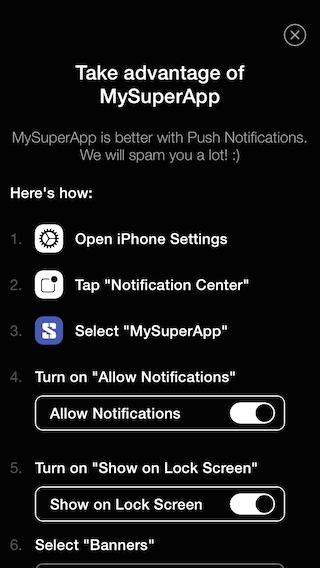
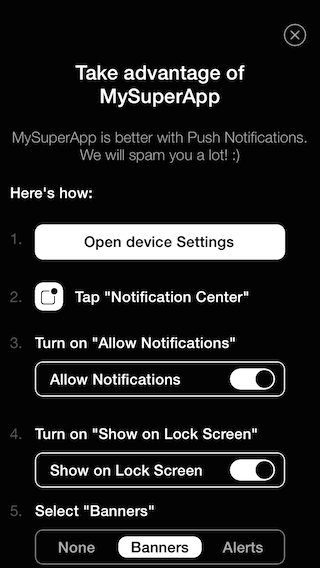
On iOS8 button to launch the device settings

diff --git a/Pod/Classes/STNotificationHelperViewController.m b/Pod/Classes/STNotificationHelperViewController.m
@@ -126,6 +126,8 @@ NSString *STNotificationLocalizedString(NSString *localizeString) {
         _exitButton = UIButton.new;
         [self.exitButton addTarget:self action:@selector(exitButtonAction) forControlEvents:UIControlEventTouchUpInside];
         self.exitButton.tintColor = UIColor.lightGrayColor;
+        self.exitButton.layer.cornerRadius = 35;
+        self.exitButton.backgroundColor = UIColor.blackColor;
         [self.exitButton setImage:[[UIImage imageNamed:@"STExit"] imageWithRenderingMode:UIImageRenderingModeAlwaysTemplate] forState:UIControlStateNormal];
         [self.view addSubview:self.exitButton];
         
@@ -180,18 +182,19 @@ NSString *STNotificationLocalizedString(NSString *localizeString) {
         UIView *currentStep = self.doesItWorkLabel;
         int currentPositionStep = 1;
         
-        currentStep = [self addOpenSettingsAtPosition:currentPositionStep++ insertUnder:currentStep];
+        if ([self isiOS7OrLower]) {
+            currentStep = [self addOpenSettingsAtPosition:currentPositionStep++ insertUnder:currentStep];
+            currentStep = [self addTapNotificationCenterAtPosition:currentPositionStep++ insertUnder:currentStep];
+            currentStep = [self addSelectYourAppAtPosition:currentPositionStep++ withNotification:notification insertUnder:currentStep];
 
-        currentStep = [self addTapNotificationCenterAtPosition:currentPositionStep++ insertUnder:currentStep];
-
-        currentStep = [self addSelectBannersAtPosition:currentPositionStep++ withNotification:notification insertUnder:currentStep];
-
-        if ( ![self isiOS7OrLower]) {
+        } else {
+            currentStep = [self addGoToSettingsAtPosition:currentPositionStep++ insertUnder:currentStep];
+            currentStep = [self addTapNotificationCenterAtPosition:currentPositionStep++ insertUnder:currentStep];
             currentStep = [self addTurnOnAllowNotifications:currentPositionStep++ insertUnder:currentStep];
+
         }
-        
+
         currentStep = [self addTurnOnLockScreen:currentPositionStep++ insertUnder:currentStep];
-        
         currentStep = [self addSelectionTypeAtPosition:currentPositionStep++ insertUnder:currentStep];
    
         [self.contentView mas_makeConstraints:^(MASConstraintMaker *make) {
@@ -230,7 +233,50 @@ NSString *STNotificationLocalizedString(NSString *localizeString) {
                 insertUnder:currentStep];
 }
 
-- (UIView *)addSelectBannersAtPosition:(int)position withNotification:(STNotificationHelperObject*)notification insertUnder:(UIView *)currentStep
+- (UIView *)addGoToSettingsAtPosition:(int)position insertUnder:(UIView *)currentStep
+{
+    
+    UILabel *numberLabel = UILabel.new;
+    numberLabel.text = [NSString stringWithFormat:@"%d.", position];
+    [self.contentView addSubview:numberLabel];
+    
+    [numberLabel mas_makeConstraints:^(MASConstraintMaker *make) {
+        make.left.mas_equalTo(self.contentView.mas_left).with.offset(10);
+        make.right.mas_equalTo(self.contentView.mas_right).with.offset(-10);
+        make.top.mas_equalTo(currentStep.mas_bottom).with.offset(kPaddingBetweenLabels);
+    }];
+    [self numberAppearanceForLables:@[numberLabel]];
+    
+    UIView *descriptionView = UIView.new;
+    descriptionView.layer.cornerRadius = 8;
+    descriptionView.layer.backgroundColor = UIColor.whiteColor.CGColor;
+    [self.contentView addSubview:descriptionView];
+    
+    [descriptionView mas_makeConstraints:^(MASConstraintMaker *make) {
+        make.left.mas_equalTo(self.contentView.mas_left).with.offset(35);
+        make.right.mas_equalTo(self.contentView.mas_right).with.offset(-35);
+        make.height.mas_equalTo(35);
+        make.top.mas_equalTo(currentStep.mas_bottom).with.offset(kPaddingBetweenLabels-kPaddingImageView);
+    }];
+    
+    UIButton *goToSettingsButton = UIButton.new;
+    [goToSettingsButton setTitle:STNotificationLocalizedString(@"notification.open") forState:UIControlStateNormal];
+    [goToSettingsButton setTitleColor:UIColor.blackColor forState:UIControlStateNormal];
+    [goToSettingsButton addTarget:self action:@selector(goToSettings) forControlEvents:UIControlEventTouchUpInside];
+    [goToSettingsButton.titleLabel setFont:[UIFont boldSystemFontOfSize:15]];
+    [descriptionView addSubview:goToSettingsButton];
+    
+    [goToSettingsButton mas_makeConstraints:^(MASConstraintMaker *make) {
+        make.left.mas_equalTo(descriptionView.mas_left).with.offset(0);
+        make.right.mas_equalTo(descriptionView.mas_right).with.offset(0);
+        make.top.mas_equalTo(descriptionView.mas_top).with.offset(0);
+        make.bottom.mas_equalTo(descriptionView.mas_bottom).with.offset(0);
+    }];
+    
+    return goToSettingsButton;
+}
+
+- (UIView *)addSelectYourAppAtPosition:(int)position withNotification:(STNotificationHelperObject*)notification insertUnder:(UIView *)currentStep
 {
     
     return [self addTapStep:[NSString stringWithFormat: STNotificationLocalizedString(@"notification.app"), notification.appName]
@@ -489,6 +535,12 @@ NSString *STNotificationLocalizedString(NSString *localizeString) {
         label.font = [UIFont systemFontOfSize:15];
         label.textColor = UIColor.darkGrayColor;
     }
+}
+
+-(void)goToSettings{
+    NSURL *url = [NSURL URLWithString:UIApplicationOpenSettingsURLString];
+    [[UIApplication sharedApplication] openURL:url];
+    [self dismissViewControllerAnimated:YES completion:nil];
 }
 
 -(void)exitButtonAction{

diff --git a/Example/STNotificationHelper/STAppDelegate.m b/Example/STNotificationHelper/STAppDelegate.m
@@ -13,6 +13,7 @@
 - (BOOL)application:(UIApplication *)application didFinishLaunchingWithOptions:(NSDictionary *)launchOptions
 {
     // Override point for customization after application launch.
+    [self registerDeviceForPushNotifications];
     return YES;
 }
 							
@@ -41,6 +42,20 @@
 - (void)applicationWillTerminate:(UIApplication *)application
 {
     // Called when the application is about to terminate. Save data if appropriate. See also applicationDidEnterBackground:.
+}
+
+#pragma mark - Register for push
+
+// Extracted from http://www.nestor.cat/push-notifications-ios8/
+-(void) registerDeviceForPushNotifications
+{
+    if([[UIApplication sharedApplication] respondsToSelector:@selector(isRegisteredForRemoteNotifications)]) {
+        [[UIApplication sharedApplication] registerUserNotificationSettings:[UIUserNotificationSettings settingsForTypes:(UIUserNotificationTypeAlert | UIUserNotificationTypeBadge) categories:nil]];
+        [[UIApplication sharedApplication] registerForRemoteNotifications];
+    } else {
+        // iOS < 8
+        [[UIApplication sharedApplication] registerForRemoteNotificationTypes:(UIUserNotificationTypeAlert | UIUserNotificationTypeBadge | UIUserNotificationTypeSound)];
+    }
 }
 
 @end

diff --git a/Example/STNotificationHelper/STViewController.m b/Example/STNotificationHelper/STViewController.m
@@ -28,9 +28,13 @@
     NSString *title = NSLocalizedString(@"Take advantage of MySuperApp", nil);
     NSString *descriptionString = NSLocalizedString(@"MySuperApp is better with Push Notifications. We will spam you a lot! :)", nil);
     
+    // You can set your own icon, or get it from the system
+    UIImage *icon = [UIImage imageNamed: [[[[NSBundle mainBundle] infoDictionary] objectForKey:@"CFBundleIconFiles"] objectAtIndex:0]];
+
+    
     STNotificationHelperObject *notificationObject = [STNotificationHelperObject objectWithTitle:title
                                                                                      description:descriptionString
-                                                                                         appIcon:[UIImage imageNamed:@"appIcon.png"]
+                                                                                         appIcon:icon
                                                                                          appName:@"MySuperApp"];
     
     STNotificationHelperViewController *notificationHelper = [STNotificationHelperViewController.alloc initWithNotification:notificationObject];

diff --git a/README.md b/README.md
@@ -33,9 +33,12 @@ pod 'STNotificationHelper'
 NSString *title = NSLocalizedString(@"Take advantage of MySuperApp", nil);
 NSString *descriptionString = NSLocalizedString(@"MySuperApp is better with Push Notifications. We will spam you a lot! :)", nil);
 
+// You can set your own icon, or get it from the system
+UIImage *icon = [UIImage imageNamed: [[[[NSBundle mainBundle] infoDictionary] objectForKey:@"CFBundleIconFiles"] objectAtIndex:0]];
+
 STNotificationHelperObject *notificationObject = [STNotificationHelperObject objectWithTitle:title
                  description:descriptionString
-                     appIcon:[UIImage imageNamed:@"appIcon.png"]
+                     appIcon:icon
                      appName:@"MySuperApp"];
 
 STNotificationHelperViewController *notificationHelper = [STNotificationHelperViewController.alloc initWithNotification:notificationObject];

diff --git a/CHANGELOG.md b/CHANGELOG.md
@@ -1,0 +1,16 @@
+## 1.1.1
+
+### iOS8 support
+* Now you can show your users the steps to enable the push notifications of your apps on an iOS 8 device.
+
+## 1.1.0
+
+### iOS8 support
+* Now you can show your users the steps to enable the push notifications of your apps on an iOS 8 device.
+* Added 
+
+## 1.0.0
+
+### Initial version ported from MHNotificationHelper
+* Code get from MHNotificationHelper with the aim to add support to iOS8 devices.
+* Added some more languages (en, es, de, fr, id, it, pl, pt, ru, sv)
